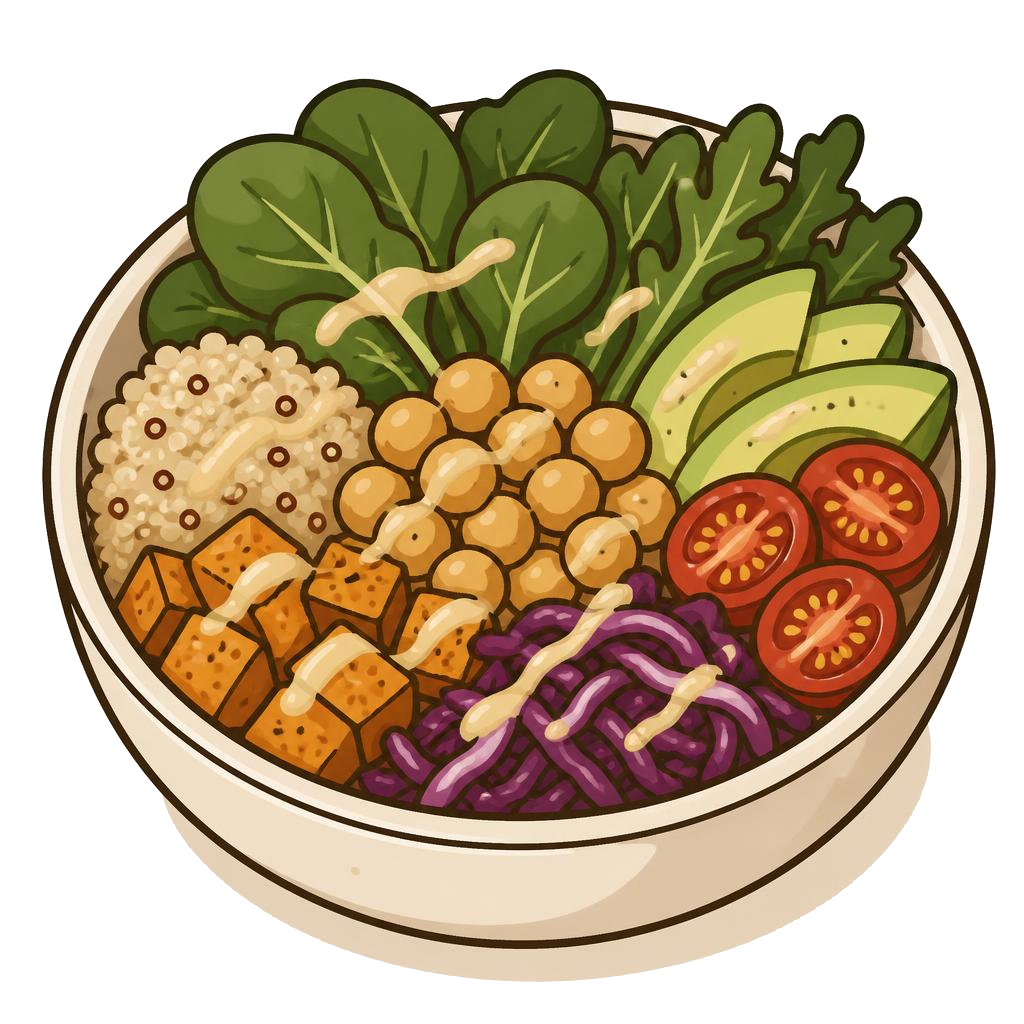
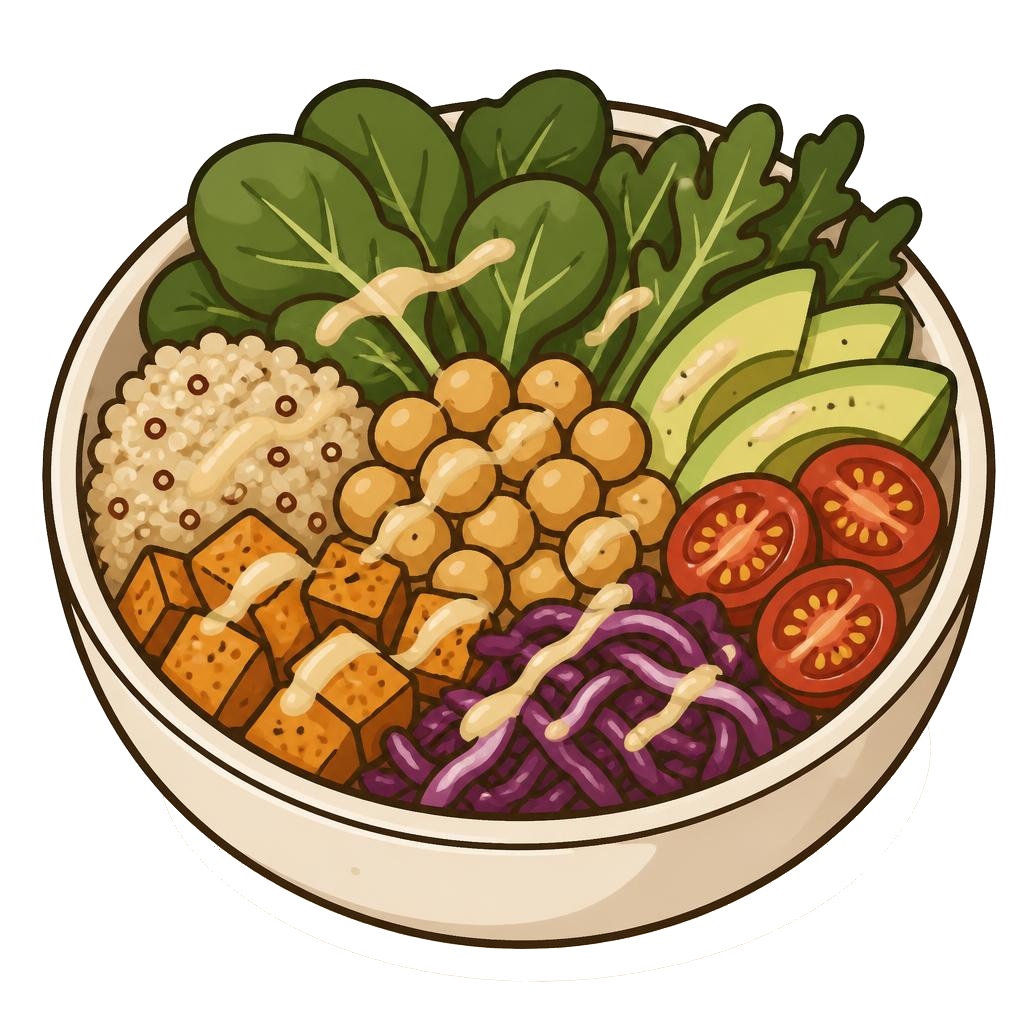
dummy pictures implemented

Changed region(s): [[0.1562, 0.7188, 0.9062, 0.9688]]

diff --git a/apps/mobile/screens/AddRecipeScreen.js b/apps/mobile/screens/AddRecipeScreen.js
@@ -18,8 +18,7 @@ import {
 } from 'react-native';
 import { SafeAreaView } from 'react-native-safe-area-context';
 
-const placeholderImage = require('../assets/no-picture.png');
-
+import RecipeImage from '../components/RecipeImage';
 import { useAuth } from '../providers/AuthProvider';
 import { useRecipes } from '../providers/RecipesProvider';
 import shared from '../sharedStyles';
@@ -446,16 +445,28 @@ export default function AddRecipeScreen({ navigation, route }) {
                 onPress={pickImage}
                 style={({ pressed }) => [styles.imagePicker, pressed && shared.pressed]}
               >
-                {(displayImageUri !== null || imageRemoved) ? (
+                {displayImageUri !== null ? (
                   <>
                     <Image
-                      source={displayImageUri ? { uri: displayImageUri } : placeholderImage}
+                      source={{ uri: displayImageUri }}
                       style={styles.imagePreview}
                       resizeMode="cover"
                     />
                     <View style={styles.imageOverlay} pointerEvents="none">
                       <SvgIcon source={require('../assets/camera_icon_white.svg')} style={{ width: 28, height: 28 }} contentFit="contain" />
                       <Text style={[shared.typography.sub2, styles.imageOverlayText]}>Edit</Text>
+                    </View>
+                  </>
+                ) : editRecipe ? (
+                  <>
+                    <RecipeImage
+                      imageUrl={null}
+                      recipeId={editRecipe.id}
+                      style={styles.imagePreview}
+                    />
+                    <View style={styles.imageOverlay} pointerEvents="none">
+                      <SvgIcon source={require('../assets/camera_icon_white.svg')} style={{ width: 28, height: 28 }} contentFit="contain" />
+                      <Text style={[shared.typography.sub2, styles.imageOverlayText]}>Add photo</Text>
                     </View>
                   </>
                 ) : (

diff --git a/apps/mobile/screens/StartScreen.js b/apps/mobile/screens/StartScreen.js
@@ -1,16 +1,15 @@
 import { useFocusEffect } from '@react-navigation/native';
 import { useCallback, useEffect, useRef, useState } from 'react';
-import { ActivityIndicator, Image, Modal, Pressable, ScrollView, StyleSheet, Text, View } from 'react-native';
+import { ActivityIndicator, Modal, Pressable, ScrollView, StyleSheet, Text, View } from 'react-native';
 import { Image as SvgIcon } from 'expo-image';
 import AppHeader from '../components/AppHeader';
+import RecipeImage from '../components/RecipeImage';
 import ScreenShell from '../components/ScreenShell';
 import { useAuth } from '../providers/AuthProvider';
 import shared from '../sharedStyles';
 import { colors } from '../theme';
 import { aggregateIngredients, formatQuantity } from '../utils/aggregateIngredients';
 import { supabase } from '../utils/supabase';
-
-const placeholderImage = require('../assets/no-picture.png');
 
 const RANGE_OPTIONS = [
   { key: 'today', label: 'Today', days: 1 },
@@ -151,10 +150,10 @@ export default function StartScreen({ navigation }) {
             })}
             style={({ pressed }) => [styles.card, pressed && styles.pressed]}
           >
-            <Image
-              source={upcoming.imageUrl ? { uri: upcoming.imageUrl } : placeholderImage}
+            <RecipeImage
+              imageUrl={upcoming.imageUrl}
+              recipeId={upcoming.recipe_id}
               style={styles.cardImage}
-              resizeMode="cover"
             />
             <View style={styles.cardContent}>
               <Text style={[shared.typography.h3, styles.cardName]} numberOfLines={1}>{upcoming.recipes?.name ?? '—'}</Text>

diff --git a/apps/mobile/screens/ScheduleRecipeScreen.js b/apps/mobile/screens/ScheduleRecipeScreen.js
@@ -1,14 +1,13 @@
 import DateTimePicker from '@react-native-community/datetimepicker';
 import { useEffect, useRef, useState } from 'react';
-import { Alert, Animated, Dimensions, Image, Modal, Platform, Pressable, ScrollView, StyleSheet, Text, View } from 'react-native';
+import { Alert, Animated, Dimensions, Modal, Platform, Pressable, ScrollView, StyleSheet, Text, View } from 'react-native';
 import { Image as SvgIcon } from 'expo-image';
 import { SafeAreaView } from 'react-native-safe-area-context';
+import RecipeImage from '../components/RecipeImage';
 import { useAuth } from '../providers/AuthProvider';
 import shared from '../sharedStyles';
 import { colors } from '../theme';
 import { supabase } from '../utils/supabase';
-
-const placeholderImage = require('../assets/no-picture.png');
 
 const MEAL_TYPES = ['Breakfast', 'Lunch', 'Dinner', 'Snack'];
 
@@ -75,10 +74,10 @@ export default function ScheduleRecipeScreen({ route, navigation }) {
         <Animated.View style={[styles.card, { transform: [{ translateY: cardSlideAnim }] }]}>
           <View style={styles.imageSection}>
             <View style={styles.imageWrapper}>
-              <Image
-                source={recipe.imageUrl ? { uri: recipe.imageUrl } : placeholderImage}
+              <RecipeImage
+                imageUrl={recipe.imageUrl}
+                recipeId={recipe.id}
                 style={styles.image}
-                resizeMode="cover"
               />
             </View>
             <Pressable

diff --git a/apps/mobile/screens/CalendarScreen.js b/apps/mobile/screens/CalendarScreen.js
@@ -1,16 +1,15 @@
 import { useFocusEffect } from '@react-navigation/native';
 import { useCallback, useMemo, useState } from 'react';
-import { Alert, ActivityIndicator, Image, Pressable, ScrollView, StyleSheet, Text, View } from 'react-native';
+import { Alert, ActivityIndicator, Pressable, ScrollView, StyleSheet, Text, View } from 'react-native';
 import { Image as SvgIcon } from 'expo-image';
 import Animated, { LinearTransition } from 'react-native-reanimated';
 import MonthCalendar from '../components/MonthCalendar';
+import RecipeImage from '../components/RecipeImage';
 import ScreenShell from '../components/ScreenShell';
 import SwipeActionsRow from '../components/SwipeActionsRow';
 import shared from '../sharedStyles';
 import { colors } from '../theme';
 import { supabase } from '../utils/supabase';
-
-const placeholderImage = require('../assets/no-picture.png');
 
 function todayIso() {
   const now = new Date();
@@ -55,10 +54,10 @@ export default function CalendarScreen({ navigation }) {
         style={styles.recipeRow}
       >
         <View style={styles.recipeImageWrapper}>
-          <Image
-            source={entry.imageUrl ? { uri: entry.imageUrl } : placeholderImage}
+          <RecipeImage
+            imageUrl={entry.imageUrl}
+            recipeId={entry.recipe_id}
             style={styles.recipeImage}
-            resizeMode="cover"
           />
         </View>
         <View style={styles.recipeInfo}>

diff --git a/apps/mobile/screens/RecipeDetailScreen.js b/apps/mobile/screens/RecipeDetailScreen.js
@@ -1,13 +1,13 @@
 import { useFocusEffect } from '@react-navigation/native';
 import { useCallback, useState } from 'react';
-import { ActivityIndicator, Alert, Image, Pressable, ScrollView, StyleSheet, Text, View } from 'react-native';
+import { ActivityIndicator, Alert, Pressable, ScrollView, StyleSheet, Text, View } from 'react-native';
 import { Image as SvgIcon } from 'expo-image';
+import RecipeImage from '../components/RecipeImage';
 import ScreenShell from '../components/ScreenShell';
 import shared from '../sharedStyles';
 import { colors } from '../theme';
 import { supabase } from '../utils/supabase';
 
-const placeholderImage = require('../assets/no-picture.png');
 const editIcon = require('../assets/edit_icon.svg');
 
 function formatDate(iso) {
@@ -103,10 +103,10 @@ export default function RecipeDetailScreen({ route, navigation }) {
           <View style={styles.card}>
             <View style={styles.imageSection}>
               <View style={styles.imageWrapper}>
-                <Image
-                  source={details?.imageUrl ? { uri: details.imageUrl } : placeholderImage}
+                <RecipeImage
+                  imageUrl={details?.imageUrl}
+                  recipeId={recipe.id}
                   style={styles.image}
-                  resizeMode="cover"
                 />
               </View>
               <Pressable

diff --git a/apps/mobile/screens/RecipesScreen.js b/apps/mobile/screens/RecipesScreen.js
@@ -1,12 +1,12 @@
 import { useEffect, useState } from 'react';
-import { FlatList, Image, Pressable, StyleSheet, Text, TextInput, View } from 'react-native';
+import { FlatList, Pressable, StyleSheet, Text, TextInput, View } from 'react-native';
 import { Image as SvgIcon } from 'expo-image';
+import RecipeImage from '../components/RecipeImage';
 import ScreenShell from '../components/ScreenShell';
 import { useRecipes } from '../providers/RecipesProvider';
 import shared from '../sharedStyles';
 import { colors } from '../theme';
 
-const placeholderImage = require('../assets/no-picture.png');
 const searchIcon = require('../assets/search_icon.svg');
 
 export default function RecipesScreen({ navigation }) {
@@ -38,10 +38,10 @@ export default function RecipesScreen({ navigation }) {
       style={({ pressed }) => pressed && styles.pressed}
     >
       <View style={styles.recipeCard}>
-        <Image
-          source={item.imageUrl ? { uri: item.imageUrl } : placeholderImage}
+        <RecipeImage
+          imageUrl={item.imageUrl}
+          recipeId={item.id}
           style={styles.recipeCardImage}
-          resizeMode="cover"
         />
         <View style={styles.recipeCardContent}>
           <Text style={[shared.typography.sub1, styles.recipeTitle]} numberOfLines={1}>

diff --git a/apps/mobile/components/RecipeImage.js b/apps/mobile/components/RecipeImage.js
@@ -1,0 +1,18 @@
+import { Image, View } from 'react-native';
+import { colors } from '../theme';
+import { pickDummyImage } from '../utils/dummyImage';
+
+export default function RecipeImage({ imageUrl, recipeId, style }) {
+  if (imageUrl) {
+    return <Image source={{ uri: imageUrl }} style={style} resizeMode="cover" />;
+  }
+  return (
+    <View style={[style, { backgroundColor: colors.white, alignItems: 'center', justifyContent: 'center', overflow: 'hidden' }]}>
+      <Image
+        source={pickDummyImage(recipeId)}
+        style={{ width: '100%', height: '100%' }}
+        resizeMode="contain"
+      />
+    </View>
+  );
+}

diff --git a/apps/mobile/utils/dummyImage.js b/apps/mobile/utils/dummyImage.js
@@ -1,0 +1,18 @@
+const dummies = [
+  require('../assets/dummy_images/dummy_bowl.png'),
+  require('../assets/dummy_images/dummy_salad.png'),
+  require('../assets/dummy_images/dummy_tacos.png'),
+];
+
+function hashStringToInt(str) {
+  let h = 0;
+  for (let i = 0; i < str.length; i++) {
+    h = (h * 31 + str.charCodeAt(i)) | 0;
+  }
+  return Math.abs(h);
+}
+
+export function pickDummyImage(recipeId) {
+  const key = String(recipeId ?? '');
+  return dummies[hashStringToInt(key) % dummies.length];
+}
